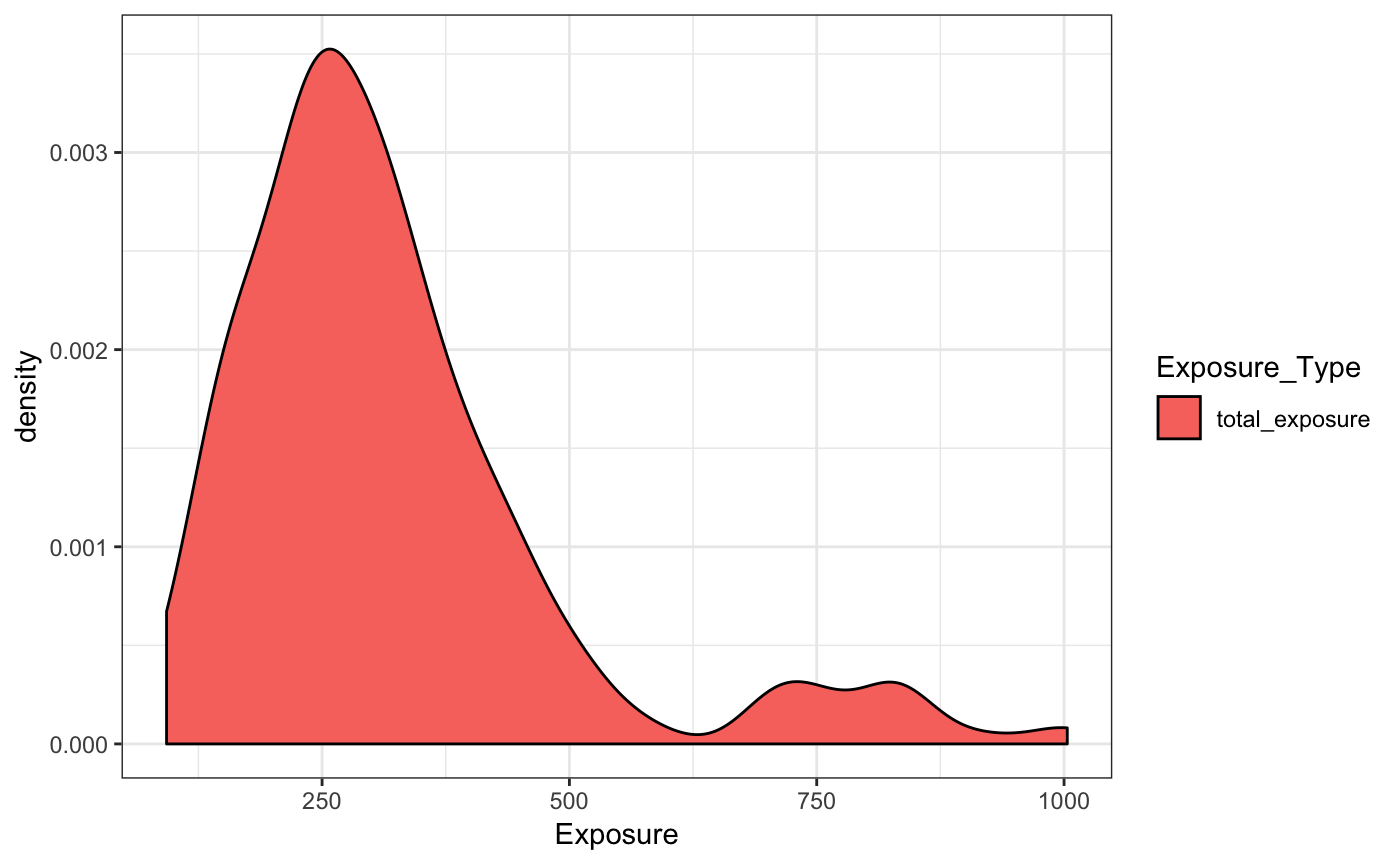
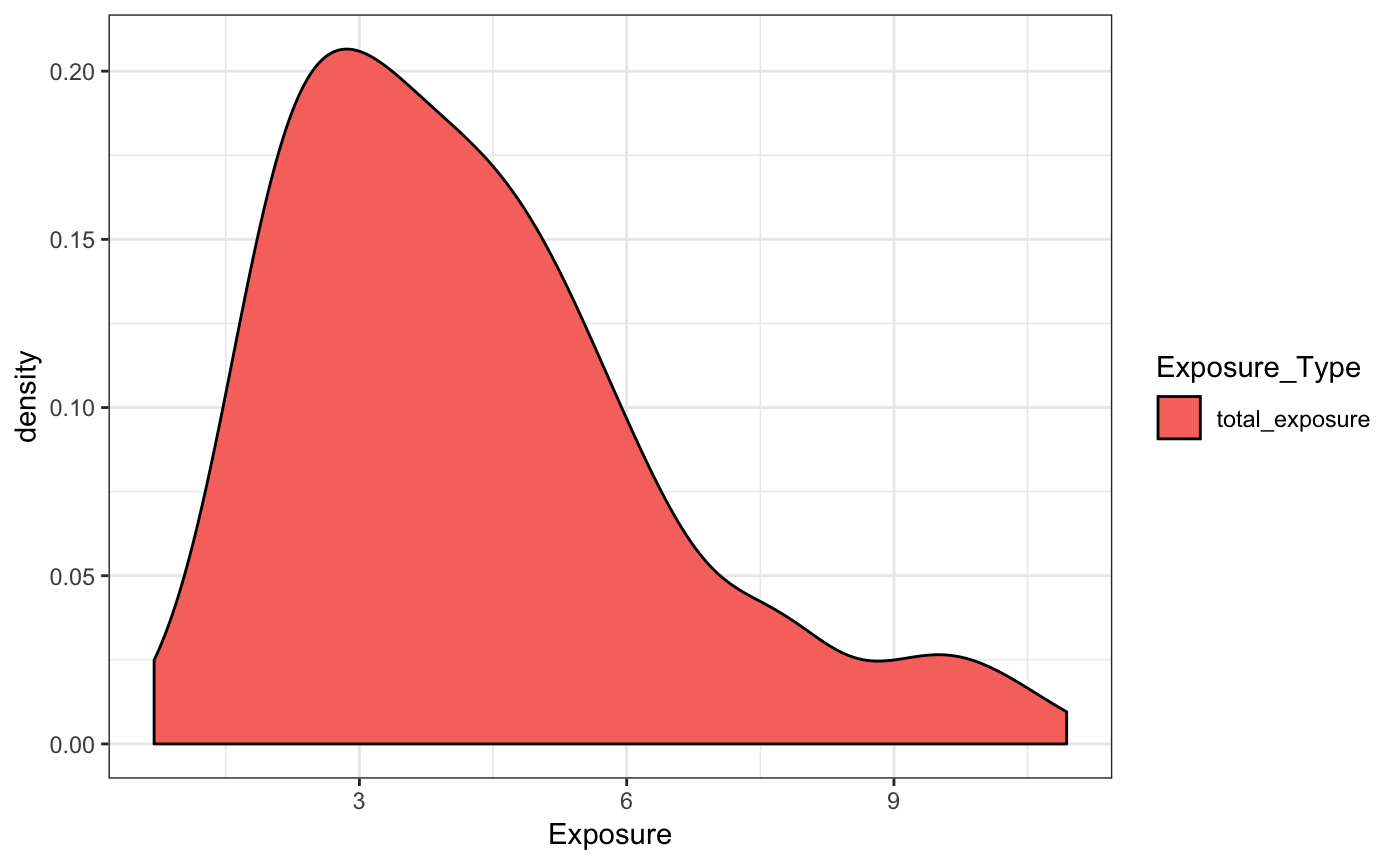
update longitudinal vignette

diff --git a/docs/articles/longitudinal-I.html b/docs/articles/longitudinal-I.html
@@ -87,7 +87,7 @@
       <h1>STAP in a Longitudinal Data Setting</h1>
                         <h4 class="author">Vignette Author</h4>
             
-            <h4 class="date">2018-09-12</h4>
+            <h4 class="date">2018-09-19</h4>
       
       
       <div class="hidden name"><code>longitudinal-I.Rmd</code></div>
@@ -107,12 +107,14 @@
 <span class="co">#&gt; </span>
 <span class="co">#&gt;     intersect, setdiff, setequal, union</span>
 <span class="kw">library</span>(tidyr)
-<span class="kw">library</span>(ggplot2)</code></pre></div>
+<span class="kw">library</span>(ggplot2)
+<span class="kw">library</span>(rstap)
+<span class="co">#&gt; Loading required package: Rcpp</span></code></pre></div>
 <div id="data-structure-complexities" class="section level1">
 <h1 class="hasAnchor">
 <a href="#data-structure-complexities" class="anchor"></a>Data Structure Complexities</h1>
 <p>Spatial-temporal aggregated predictor (STAP) models extension in the longitudinal setting incorporates heirarchical variance components to account for within subject or group-level correlation.</p>
-<p>This setting also involves a different data structure, since exposure to built - environment features now occurs across time, subject movement across time or space. dropping out of studies and built-environment features - stores - may close or open, the map and covariate space is dynamic. This requires a secondary id to join on in addition to the typical ‘id_key’. We’ll demonstrate this and the stap model using the simple case of homogenously distributed built environment features, with subjects measured across two time points.</p>
+<p>This setting also involves a different data structure, since exposure to built environment features now occurs across time, and subjects can move across time or space. dropping out of studies and built-environment features - stores - may close or open, the map and covariate space is dynamic. This requires a secondary id to join on in addition to the typical ‘id_key’. We’ll demonstrate this and the stap model using the simple case of homogenously distributed built environment features, with subjects measured across two time points.</p>
 <p>Below we can see what the data for this kind of model might look like.</p>
 <div class="sourceCode"><pre class="sourceCode r"><code class="sourceCode r"><span class="kw">list</span>(<span class="st">'Subject Spatial-Temporal Data'</span> =<span class="st"> </span>subj_data,
      <span class="st">"BEF Spatial-Temporal Data"</span> =<span class="st"> </span>bef_data)
@@ -203,7 +205,7 @@
 <p><span class="math display">\[
 E[Y_{ij}|b_i] = \alpha + Z_1\delta_{Income} + Z_{2}\delta_{sex} + Z_{3}\delta_{Age} + X(\theta_s,\theta_t)\beta_{Coffee} + b_i
 \]</span> Where <span class="math display">\[
-X(\theta_s,\theta_t) = \big(\sum_{d\in\mathcal{D}} w_d(\frac{d}{\theta_s}) \big) \big(\sum_{t\in \mathcal{T}} w_t(\frac{t}{\theta_t}))
+X(\theta_s,\theta_t) = \big(\sum_{d\in\mathcal{D}} w_d(\frac{d}{\theta_s}) w_t(\frac{t}{\theta_t}) \big )
 \]</span></p>
 <p>and simulate it under the following fixed values</p>
 <div class="sourceCode"><pre class="sourceCode r"><code class="sourceCode r">alpha &lt;-<span class="st"> </span><span class="dv">22</span>
@@ -211,48 +213,51 @@ delta &lt;-<span class="st"> </span><span class="kw">c</span>(<span class="dt">I
 beta &lt;-<span class="st"> </span>.<span class="dv">5</span>
 theta_s &lt;-<span class="st"> </span>.<span class="dv">8</span>
 theta_t &lt;-<span class="st"> </span><span class="dv">34</span>
-tau &lt;-<span class="st"> </span><span class="dv">2</span>
+sigma &lt;-<span class="st"> </span><span class="dv">2</span>
+tau &lt;-<span class="st"> </span><span class="fl">1.5</span>
 d &lt;-<span class="st"> </span><span class="kw">seq</span>(<span class="dt">from =</span> <span class="dv">0</span>, <span class="dt">to =</span> <span class="kw">max</span>(td_data<span class="op">$</span>dist), <span class="dt">by =</span> <span class="fl">0.01</span>)
 t &lt;-<span class="st"> </span><span class="kw">seq</span>(<span class="dt">from =</span> <span class="dv">0</span>, <span class="dt">to =</span> <span class="kw">as.numeric</span>(<span class="kw">max</span>(td_data<span class="op">$</span>time)), <span class="dt">by =</span> <span class="fl">0.01</span>)
 w_s &lt;-<span class="st"> </span>pracma<span class="op">::</span><span class="kw"><a href="http://www.rdocumentation.org/packages/pracma/topics/erfz">erfc</a></span>(d<span class="op">/</span>theta_s)
 w_t &lt;-<span class="st"> </span>pracma<span class="op">::</span><span class="kw"><a href="http://www.rdocumentation.org/packages/pracma/topics/erfz">erf</a></span>(t<span class="op">/</span>theta_t)
 <span class="kw">par</span>(<span class="dt">mfrow=</span><span class="kw">c</span>(<span class="dv">1</span>,<span class="dv">2</span>))
 <span class="kw">plot</span>(d,w_s,<span class="dt">type=</span><span class="st">'l'</span>, <span class="dt">main=</span><span class="st">"Spatial Decay"</span>)
-<span class="kw">plot</span>(t,w_t,<span class="dt">type =</span> <span class="st">"l"</span>, <span class="dt">main =</span> <span class="st">"Temporal Accumulation"</span>)</code></pre></div>
+<span class="kw">plot</span>(t,w_t,<span class="dt">type =</span> <span class="st">"l"</span>, <span class="dt">main =</span> <span class="st">"Temporal Accumulation"</span>,<span class="dt">xlab=</span><span class="st">'years'</span>)</code></pre></div>
 <p><img src="longitudinal-I_files/figure-html/unnamed-chunk-4-1.png" width="700"></p>
 <p>This will result in the following exposure densities</p>
-<div class="sourceCode"><pre class="sourceCode r"><code class="sourceCode r">td_data <span class="op">%&gt;%</span><span class="st"> </span><span class="kw"><a href="http://dplyr.tidyverse.org/reference/group_by.html">group_by</a></span>(subj_ID,measure_ID) <span class="op">%&gt;%</span><span class="st"> </span>
+<div class="sourceCode"><pre class="sourceCode r"><code class="sourceCode r">td_data <span class="op">%&gt;%</span><span class="st"> </span><span class="kw"><a href="http://dplyr.tidyverse.org/reference/group_by.html">group_by</a></span>(subj_ID,measure_ID,date) <span class="op">%&gt;%</span><span class="st"> </span>
 <span class="st">    </span><span class="kw"><a href="http://dplyr.tidyverse.org/reference/summarise.html">summarize</a></span>(<span class="dt">dist_exposure =</span> <span class="kw">sum</span>(pracma<span class="op">::</span><span class="kw"><a href="http://www.rdocumentation.org/packages/pracma/topics/erfz">erfc</a></span>(dist<span class="op">/</span>theta_s)),
               <span class="dt">time_exposure =</span> <span class="kw">sum</span>(pracma<span class="op">::</span><span class="kw"><a href="http://www.rdocumentation.org/packages/pracma/topics/erfz">erf</a></span>(<span class="kw">as.numeric</span>(time)<span class="op">/</span>theta_t)),
-              <span class="dt">total_exposure =</span> dist_exposure<span class="op">*</span>time_exposure) <span class="op">%&gt;%</span><span class="st"> </span>
+              <span class="dt">total_exposure =</span> <span class="kw">sum</span>(pracma<span class="op">::</span><span class="kw"><a href="http://www.rdocumentation.org/packages/pracma/topics/erfz">erfc</a></span>(dist<span class="op">/</span>theta_s) <span class="op">*</span><span class="st"> </span>pracma<span class="op">::</span><span class="kw"><a href="http://www.rdocumentation.org/packages/pracma/topics/erfz">erfc</a></span>(<span class="kw">as.numeric</span>(time)<span class="op">/</span>theta_t)) ) <span class="op">%&gt;%</span><span class="st"> </span>
 <span class="st">    </span><span class="kw"><a href="http://www.rdocumentation.org/packages/tidyr/topics/gather">gather</a></span>(<span class="kw"><a href="http://dplyr.tidyverse.org/reference/reexports.html">contains</a></span>(<span class="st">"Exposure"</span>),<span class="dt">key=</span><span class="st">"Exposure_Type"</span>,<span class="dt">value =</span> <span class="st">"Exposure"</span>) <span class="op">%&gt;%</span><span class="st"> </span>
 <span class="st">    </span><span class="kw"><a href="http://dplyr.tidyverse.org/reference/filter.html">filter</a></span>(Exposure_Type <span class="op">!=</span><span class="st"> "total_exposure"</span>) <span class="op">%&gt;%</span><span class="st"> </span>
 <span class="st">    </span><span class="kw"><a href="http://www.rdocumentation.org/packages/ggplot2/topics/ggplot">ggplot</a></span>(<span class="kw"><a href="http://www.rdocumentation.org/packages/ggplot2/topics/aes">aes</a></span>(<span class="dt">x=</span>Exposure,<span class="dt">fill=</span>Exposure_Type)) <span class="op">+</span><span class="st"> </span><span class="kw"><a href="http://www.rdocumentation.org/packages/ggplot2/topics/geom_density">geom_density</a></span>(<span class="dt">alpha=</span><span class="fl">0.4</span>)  <span class="op">+</span><span class="st"> </span>
 <span class="st">        </span><span class="kw"><a href="http://www.rdocumentation.org/packages/ggplot2/topics/ggtheme">theme_bw</a></span>()</code></pre></div>
 <p><img src="longitudinal-I_files/figure-html/unnamed-chunk-5-1.png" width="700"></p>
-<div class="sourceCode"><pre class="sourceCode r"><code class="sourceCode r">td_data <span class="op">%&gt;%</span><span class="st"> </span><span class="kw"><a href="http://dplyr.tidyverse.org/reference/group_by.html">group_by</a></span>(subj_ID,measure_ID) <span class="op">%&gt;%</span><span class="st"> </span>
+<div class="sourceCode"><pre class="sourceCode r"><code class="sourceCode r">td_data <span class="op">%&gt;%</span><span class="st"> </span><span class="kw"><a href="http://dplyr.tidyverse.org/reference/group_by.html">group_by</a></span>(subj_ID,measure_ID,date) <span class="op">%&gt;%</span><span class="st"> </span>
 <span class="st">    </span><span class="kw"><a href="http://dplyr.tidyverse.org/reference/summarise.html">summarize</a></span>(<span class="dt">dist_exposure =</span> <span class="kw">sum</span>(pracma<span class="op">::</span><span class="kw"><a href="http://www.rdocumentation.org/packages/pracma/topics/erfz">erfc</a></span>(dist<span class="op">/</span>theta_s)),
               <span class="dt">time_exposure =</span> <span class="kw">sum</span>(pracma<span class="op">::</span><span class="kw"><a href="http://www.rdocumentation.org/packages/pracma/topics/erfz">erf</a></span>(<span class="kw">as.numeric</span>(time)<span class="op">/</span>theta_t)),
-              <span class="dt">total_exposure =</span> dist_exposure<span class="op">*</span>time_exposure) <span class="op">%&gt;%</span><span class="st"> </span>
+              <span class="dt">total_exposure =</span> <span class="kw">sum</span>(pracma<span class="op">::</span><span class="kw"><a href="http://www.rdocumentation.org/packages/pracma/topics/erfz">erfc</a></span>(dist<span class="op">/</span>theta_s) <span class="op">*</span><span class="st"> </span>pracma<span class="op">::</span><span class="kw"><a href="http://www.rdocumentation.org/packages/pracma/topics/erfz">erfc</a></span>(<span class="kw">as.numeric</span>(time)<span class="op">/</span>theta_t))) <span class="op">%&gt;%</span><span class="st"> </span>
 <span class="st">    </span><span class="kw"><a href="http://www.rdocumentation.org/packages/tidyr/topics/gather">gather</a></span>(<span class="kw"><a href="http://dplyr.tidyverse.org/reference/reexports.html">contains</a></span>(<span class="st">"Exposure"</span>),<span class="dt">key=</span><span class="st">"Exposure_Type"</span>,<span class="dt">value =</span> <span class="st">"Exposure"</span>) <span class="op">%&gt;%</span><span class="st"> </span>
 <span class="st">    </span><span class="kw"><a href="http://dplyr.tidyverse.org/reference/filter.html">filter</a></span>(Exposure_Type <span class="op">==</span><span class="st"> "total_exposure"</span>) <span class="op">%&gt;%</span><span class="st"> </span>
 <span class="st">    </span><span class="kw"><a href="http://www.rdocumentation.org/packages/ggplot2/topics/ggplot">ggplot</a></span>(<span class="kw"><a href="http://www.rdocumentation.org/packages/ggplot2/topics/aes">aes</a></span>(<span class="dt">x=</span>Exposure,<span class="dt">fill=</span>Exposure_Type)) <span class="op">+</span><span class="st"> </span><span class="kw"><a href="http://www.rdocumentation.org/packages/ggplot2/topics/geom_density">geom_density</a></span>()  <span class="op">+</span><span class="st"> </span>
 <span class="st">        </span><span class="kw"><a href="http://www.rdocumentation.org/packages/ggplot2/topics/ggtheme">theme_bw</a></span>()</code></pre></div>
 <p><img src="longitudinal-I_files/figure-html/unnamed-chunk-6-1.png" width="700"></p>
 <p>Below we see that after scaling and centering, the average exposure is higher for the second measurement. This makes sense because we’d expect individuals temporal exposure to continue to accumulate after the first measurement.</p>
-<div class="sourceCode"><pre class="sourceCode r"><code class="sourceCode r">Xs &lt;-<span class="st"> </span>td_data <span class="op">%&gt;%</span><span class="st"> </span><span class="kw"><a href="http://dplyr.tidyverse.org/reference/group_by.html">group_by</a></span>(subj_ID,measure_ID) <span class="op">%&gt;%</span><span class="st"> </span>
+<div class="sourceCode"><pre class="sourceCode r"><code class="sourceCode r">Xs &lt;-<span class="st"> </span>td_data <span class="op">%&gt;%</span><span class="st"> </span><span class="kw"><a href="http://dplyr.tidyverse.org/reference/group_by.html">group_by</a></span>(subj_ID,measure_ID,date) <span class="op">%&gt;%</span><span class="st"> </span>
 <span class="st">    </span><span class="kw"><a href="http://dplyr.tidyverse.org/reference/summarise.html">summarize</a></span>(<span class="dt">dist_exposure =</span> <span class="kw">sum</span>(pracma<span class="op">::</span><span class="kw"><a href="http://www.rdocumentation.org/packages/pracma/topics/erfz">erfc</a></span>(dist<span class="op">/</span>theta_s)),
               <span class="dt">time_exposure =</span> <span class="kw">sum</span>(pracma<span class="op">::</span><span class="kw"><a href="http://www.rdocumentation.org/packages/pracma/topics/erfz">erf</a></span>(<span class="kw">as.numeric</span>(time)<span class="op">/</span>theta_t)),
-              <span class="dt">total_exposure =</span> dist_exposure<span class="op">*</span>time_exposure) <span class="op">%&gt;%</span><span class="st"> </span>
+              <span class="dt">total_exposure =</span> <span class="kw">sum</span>(pracma<span class="op">::</span><span class="kw"><a href="http://www.rdocumentation.org/packages/pracma/topics/erfz">erfc</a></span>(dist<span class="op">/</span>theta_s) <span class="op">*</span><span class="st"> </span>pracma<span class="op">::</span><span class="kw"><a href="http://www.rdocumentation.org/packages/pracma/topics/erfz">erfc</a></span>(<span class="kw">as.numeric</span>(time)<span class="op">/</span>theta_t)) ) <span class="op">%&gt;%</span><span class="st"> </span>
 <span class="st">    </span><span class="kw"><a href="http://dplyr.tidyverse.org/reference/reexports.html">as_data_frame</a></span>() <span class="op">%&gt;%</span><span class="st"> </span><span class="kw"><a href="http://www.rdocumentation.org/packages/tidyr/topics/gather">gather</a></span>(<span class="kw"><a href="http://dplyr.tidyverse.org/reference/reexports.html">contains</a></span>(<span class="st">"Exposure"</span>),<span class="dt">key=</span><span class="st">'Exposure_Type'</span>,<span class="dt">value=</span><span class="st">"Exposure"</span>) <span class="op">%&gt;%</span><span class="st"> </span>
 <span class="st">    </span><span class="kw"><a href="http://dplyr.tidyverse.org/reference/filter.html">filter</a></span>(Exposure_Type <span class="op">==</span><span class="st"> "total_exposure"</span>) <span class="op">%&gt;%</span><span class="st"> </span>
-<span class="st">    </span><span class="kw"><a href="http://www.rdocumentation.org/packages/tidyr/topics/spread">spread</a></span>(measure_ID,Exposure) <span class="op">%&gt;%</span><span class="st"> </span>
-<span class="st">    </span><span class="kw"><a href="http://dplyr.tidyverse.org/reference/mutate.html">mutate</a></span>(<span class="dt">j_1 =</span> (<span class="st">`</span><span class="dt">1</span><span class="st">`</span> <span class="op">-</span><span class="st"> </span><span class="kw">mean</span>(<span class="st">`</span><span class="dt">1</span><span class="st">`</span>)) <span class="op">/</span><span class="st"> </span><span class="kw">sd</span>(<span class="st">`</span><span class="dt">1</span><span class="st">`</span>),
-           <span class="dt">j_2 =</span> (<span class="st">`</span><span class="dt">2</span><span class="st">`</span> <span class="op">-</span><span class="st"> </span><span class="kw">mean</span>(<span class="st">`</span><span class="dt">2</span><span class="st">`</span>,<span class="dt">na.rm=</span>T)) <span class="op">/</span><span class="st"> </span><span class="kw">sd</span>(<span class="st">`</span><span class="dt">2</span><span class="st">`</span>,<span class="dt">na.rm=</span>T)) <span class="op">%&gt;%</span><span class="st"> </span>## Needed because some subjects missing for second measurement
+<span class="st">    </span><span class="kw"><a href="http://dplyr.tidyverse.org/reference/group_by.html">group_by</a></span>(subj_ID,measure_ID) <span class="op">%&gt;%</span><span class="st"> </span><span class="kw"><a href="http://dplyr.tidyverse.org/reference/summarise.html">summarise</a></span>(<span class="dt">Exposure =</span> <span class="kw">sum</span>(Exposure)) <span class="op">%&gt;%</span><span class="st">  </span>## sum multiple dates (moves) to a single outcome measurement
+<span class="st">    </span><span class="kw"><a href="http://www.rdocumentation.org/packages/tidyr/topics/spread">spread</a></span>(measure_ID,Exposure) <span class="op">%&gt;%</span><span class="st">  </span>
+<span class="st">    </span><span class="kw"><a href="http://dplyr.tidyverse.org/reference/mutate.html">mutate</a></span>(<span class="dt">j_1 =</span> (<span class="st">`</span><span class="dt">1</span><span class="st">`</span> <span class="op">-</span><span class="st"> </span><span class="kw">mean</span>(.<span class="op">$</span><span class="st">`</span><span class="dt">1</span><span class="st">`</span>)) <span class="op">/</span><span class="st"> </span><span class="kw">sd</span>(.<span class="op">$</span><span class="st">`</span><span class="dt">1</span><span class="st">`</span>),
+           <span class="dt">j_2 =</span> (<span class="st">`</span><span class="dt">2</span><span class="st">`</span> <span class="op">-</span><span class="st"> </span><span class="kw">mean</span>(.<span class="op">$</span><span class="st">`</span><span class="dt">2</span><span class="st">`</span>,<span class="dt">na.rm=</span>T)) <span class="op">/</span><span class="st"> </span><span class="kw">sd</span>(.<span class="op">$</span><span class="st">`</span><span class="dt">2</span><span class="st">`</span>,<span class="dt">na.rm=</span>T)) <span class="op">%&gt;%</span><span class="st"> </span>## Needed because some subjects missing for second measurement
 <span class="st">    </span><span class="kw"><a href="http://dplyr.tidyverse.org/reference/select.html">select</a></span>(subj_ID,j_<span class="dv">1</span>,j_<span class="dv">2</span>)
 
-subj_fdata &lt;-<span class="st"> </span>subj_fdata <span class="op">%&gt;%</span><span class="st"> </span><span class="kw"><a href="http://dplyr.tidyverse.org/reference/join.html">left_join</a></span>(Xs <span class="op">%&gt;%</span><span class="st"> </span><span class="kw"><a href="http://www.rdocumentation.org/packages/tidyr/topics/gather">gather</a></span>(j_<span class="dv">1</span>,j_<span class="dv">2</span>,<span class="dt">key =</span> <span class="st">"measure_ID"</span>,<span class="dt">value=</span><span class="st">"Fast_Food"</span>) <span class="op">%&gt;%</span><span class="st"> </span><span class="kw"><a href="http://dplyr.tidyverse.org/reference/mutate.html">mutate</a></span>(<span class="dt">measure_ID =</span> (measure_ID<span class="op">==</span><span class="st">"j_2"</span>)<span class="op">*</span><span class="dv">1</span> <span class="op">+</span><span class="st"> </span><span class="dv">1</span>),
+subj_fdata &lt;-<span class="st"> </span>subj_fdata <span class="op">%&gt;%</span><span class="st"> </span><span class="kw"><a href="http://dplyr.tidyverse.org/reference/join.html">left_join</a></span>(Xs <span class="op">%&gt;%</span><span class="st"> </span><span class="kw"><a href="http://www.rdocumentation.org/packages/tidyr/topics/gather">gather</a></span>(j_<span class="dv">1</span>,j_<span class="dv">2</span>,<span class="dt">key =</span> <span class="st">"measure_ID"</span>,<span class="dt">value=</span><span class="st">"Coffee_Shop"</span>) <span class="op">%&gt;%</span><span class="st"> </span><span class="kw"><a href="http://dplyr.tidyverse.org/reference/mutate.html">mutate</a></span>(<span class="dt">measure_ID =</span> (measure_ID<span class="op">==</span><span class="st">"j_2"</span>)<span class="op">*</span><span class="dv">1</span> <span class="op">+</span><span class="st"> </span><span class="dv">1</span>),
                                        <span class="dt">by=</span><span class="kw">c</span>(<span class="st">"ID"</span>=<span class="st">"subj_ID"</span>,<span class="st">"measure_ID"</span>))
+
 subj_fdata &lt;-<span class="st"> </span>subj_fdata <span class="op">%&gt;%</span><span class="st"> </span><span class="kw"><a href="http://dplyr.tidyverse.org/reference/join.html">left_join</a></span>(<span class="kw"><a href="http://dplyr.tidyverse.org/reference/reexports.html">data_frame</a></span>(<span class="dt">ID=</span><span class="dv">1</span><span class="op">:</span>num_subj_init,
                                                   <span class="dt">ran_int =</span> <span class="kw">rnorm</span>(<span class="dt">n=</span>num_subj_init,<span class="dt">mean =</span> <span class="dv">0</span>, <span class="dt">sd =</span> tau)))
 <span class="co">#&gt; Joining, by = "ID"</span>
@@ -260,66 +265,120 @@ subj_fdata &lt;-<span class="st"> </span>subj_fdata <span class="op">%&gt;%</spa
 Xs <span class="op">%&gt;%</span><span class="st"> </span><span class="kw"><a href="http://www.rdocumentation.org/packages/tidyr/topics/gather">gather</a></span>(j_<span class="dv">1</span>,j_<span class="dv">2</span>,<span class="dt">key=</span><span class="st">"measurement"</span>,<span class="dt">value=</span><span class="st">"exposure"</span>) <span class="op">%&gt;%</span>
 <span class="st">    </span><span class="kw"><a href="http://www.rdocumentation.org/packages/ggplot2/topics/ggplot">ggplot</a></span>(<span class="kw"><a href="http://www.rdocumentation.org/packages/ggplot2/topics/aes">aes</a></span>(<span class="dt">x=</span>exposure,<span class="dt">fill=</span>measurement)) <span class="op">+</span><span class="st"> </span><span class="kw"><a href="http://www.rdocumentation.org/packages/ggplot2/topics/geom_density">geom_density</a></span>(<span class="dt">alpha=</span><span class="fl">0.3</span>)  <span class="op">+</span><span class="st"> </span><span class="kw"><a href="http://www.rdocumentation.org/packages/ggplot2/topics/ggtheme">theme_bw</a></span>()</code></pre></div>
 <p><img src="longitudinal-I_files/figure-html/unnamed-chunk-7-1.png" width="700"></p>
-<div class="sourceCode"><pre class="sourceCode r"><code class="sourceCode r">lme_inf &lt;-<span class="st"> </span>lme4<span class="op">::</span><span class="kw"><a href="http://www.rdocumentation.org/packages/lme4/topics/modular">glFormula</a></span>(<span class="dt">formula =</span>  measure_ID <span class="op">~</span><span class="st"> </span>sex <span class="op">+</span><span class="st"> </span><span class="kw">I</span>((Income<span class="op">-</span><span class="kw">mean</span>(Income))<span class="op">/</span><span class="kw">sd</span>(Income) ) <span class="op">+</span><span class="st"> </span><span class="kw">I</span>((Age <span class="op">-</span><span class="kw">mean</span>(Age))<span class="op">/</span><span class="kw">sd</span>(Age)) <span class="op">+</span><span class="st"> </span>Fast_Food <span class="op">+</span><span class="st"> </span>(<span class="dv">1</span><span class="op">|</span>ID),
+<div class="sourceCode"><pre class="sourceCode r"><code class="sourceCode r">lme_inf &lt;-<span class="st"> </span>lme4<span class="op">::</span><span class="kw"><a href="http://www.rdocumentation.org/packages/lme4/topics/modular">glFormula</a></span>(<span class="dt">formula =</span>  measure_ID <span class="op">~</span>
+<span class="st">                               </span><span class="kw">I</span>((Income<span class="op">-</span><span class="kw">mean</span>(Income))<span class="op">/</span><span class="kw">sd</span>(Income) ) <span class="op">+</span><span class="st"> </span>
+<span class="st">                               </span>sex <span class="op">+</span><span class="st"> </span>
+<span class="st">                               </span><span class="kw">I</span>((Age <span class="op">-</span><span class="kw">mean</span>(Age))<span class="op">/</span><span class="kw">sd</span>(Age)) <span class="op">+</span><span class="st"> </span>
+<span class="st">                               </span>Coffee_Shop <span class="op">+</span><span class="st"> </span>(<span class="dv">1</span><span class="op">|</span>ID),
                      <span class="dt">data =</span> subj_fdata,<span class="dt">family =</span> <span class="kw">gaussian</span>(<span class="dt">link=</span><span class="st">'identity'</span>))
 Z &lt;-<span class="st"> </span>lme_inf<span class="op">$</span>X
-y &lt;-<span class="st"> </span>Z <span class="op">%*%</span><span class="st"> </span><span class="kw">c</span>(alpha,delta,beta) <span class="op">+</span><span class="st"> </span>subj_fdata<span class="op">$</span>ran_int
+y &lt;-<span class="st"> </span>Z <span class="op">%*%</span><span class="st"> </span><span class="kw">c</span>(alpha,delta,beta) <span class="op">+</span><span class="st"> </span>subj_fdata<span class="op">$</span>ran_int <span class="op">+</span><span class="st"> </span><span class="kw">rnorm</span>(<span class="dt">n =</span> <span class="kw">nrow</span>(Z),<span class="dt">mean =</span> <span class="dv">0</span>,<span class="dt">sd =</span> sigma)
 <span class="kw">par</span>(<span class="dt">mfrow=</span><span class="kw">c</span>(<span class="dv">1</span>,<span class="dv">2</span>))
-<span class="kw">hist</span>(y[<span class="dv">1</span><span class="op">:</span>num_subj_init],<span class="dt">main=</span><span class="st">"First Measurement"</span>)
-<span class="kw">hist</span>(y[num_subj_init<span class="op">+</span><span class="dv">1</span><span class="op">:</span><span class="kw">length</span>(y)],<span class="dt">main=</span><span class="st">"First Measurement"</span>)</code></pre></div>
+<span class="kw">hist</span>(y[<span class="dv">1</span><span class="op">:</span>num_subj_init], <span class="dt">xlab =</span> <span class="st">"BMI"</span>,<span class="dt">main=</span><span class="st">"First Measurement"</span>)
+<span class="kw">hist</span>(y[num_subj_init<span class="op">+</span><span class="dv">1</span><span class="op">:</span><span class="kw">length</span>(y)], <span class="dt">xlab=</span> <span class="st">"BMI"</span>, <span class="dt">main=</span><span class="st">"Second Measurement"</span>)</code></pre></div>
 <p><img src="longitudinal-I_files/figure-html/unnamed-chunk-8-1.png" width="700"></p>
 <div class="sourceCode"><pre class="sourceCode r"><code class="sourceCode r">subj_fdata &lt;-<span class="st"> </span>subj_fdata <span class="op">%&gt;%</span><span class="st"> </span><span class="kw"><a href="http://dplyr.tidyverse.org/reference/join.html">left_join</a></span>(<span class="kw">cbind</span>(lme_inf<span class="op">$</span>fr,y),<span class="dt">by=</span><span class="kw">c</span>(<span class="st">"ID"</span>,<span class="st">"measure_ID"</span>))  <span class="op">%&gt;%</span><span class="st"> </span>
-<span class="st">    </span><span class="kw"><a href="http://dplyr.tidyverse.org/reference/mutate.html">mutate</a></span>(<span class="dt">sex =</span> sex.x, <span class="dt">Fast_Food=</span> Fast_Food.x) <span class="op">%&gt;%</span><span class="st"> </span><span class="kw"><a href="http://dplyr.tidyverse.org/reference/select.html">select</a></span>(<span class="op">-</span>Fast_Food.x,<span class="op">-</span>sex.x,<span class="op">-</span>sex.y,<span class="op">-</span>Fast_Food.y)</code></pre></div>
+<span class="st">    </span><span class="kw"><a href="http://dplyr.tidyverse.org/reference/mutate.html">mutate</a></span>(<span class="dt">sex =</span> sex.x, <span class="dt">Coffee_Shop=</span> Coffee_Shop.x,<span class="dt">subj_ID=</span>ID,
+           <span class="dt">centered_income =</span> <span class="st">`</span><span class="dt">I((Income - mean(Income))/sd(Income))</span><span class="st">`</span>,
+           <span class="dt">centered_age =</span> <span class="st">`</span><span class="dt">I((Age - mean(Age))/sd(Age))</span><span class="st">`</span>) <span class="op">%&gt;%</span>
+<span class="st">    </span><span class="kw"><a href="http://dplyr.tidyverse.org/reference/select.html">select</a></span>(<span class="op">-</span>Coffee_Shop.x,<span class="op">-</span>sex.x,<span class="op">-</span>sex.y,
+           <span class="op">-</span>ID,<span class="st">`</span><span class="dt">I((Age - mean(Age))/sd(Age))</span><span class="st">`</span>,
+           <span class="st">`</span><span class="dt">I((Income - mean(Income))/sd(Income))</span><span class="st">`</span>)</code></pre></div>
 <p>The final datasets passed to the <code>stap_glmer</code> function will then be the subject specific data, and the td data above containing the subject ID, the BEF class label and the distance or time. These are displayed below</p>
 <pre><code>#&gt; $subject_data
-#&gt; # A tibble: 291 x 12
-#&gt;       ID DOB        Income measure_date   Age measure_ID ran_int
-#&gt;    &lt;int&gt; &lt;date&gt;      &lt;dbl&gt; &lt;date&gt;       &lt;dbl&gt;      &lt;dbl&gt;   &lt;dbl&gt;
-#&gt;  1     1 1956-08-11   99.2 2000-02-19    43.6          1   0.197
-#&gt;  2     2 1953-09-23   62.6 2000-03-20    46.5          1   0.324
-#&gt;  3     3 1968-10-01   21.8 2000-03-10    31.5          1   0.641
-#&gt;  4     4 1954-06-01   89.9 2000-10-11    46.4          1   1.38 
-#&gt;  5     5 1956-09-22   50.6 2000-10-14    44.1          1   1.35 
-#&gt;  6     6 1960-01-30   19.5 2000-10-03    40.7          1  -0.246
-#&gt;  7     7 1954-04-17   67.2 2000-12-09    46.7          1   0.169
-#&gt;  8     8 1958-11-01   79.1 2000-05-12    41.6          1  -0.516
-#&gt;  9     9 1966-04-06   66.8 2000-03-14    34.0          1  -0.460
-#&gt; 10    10 1952-02-04   67.2 2000-12-04    48.9          1  -2.38 
-#&gt; # ... with 281 more rows, and 5 more variables: `I((Income -
-#&gt; #   mean(Income))/sd(Income))` &lt;I(dbl)&gt;, `I((Age -
-#&gt; #   mean(Age))/sd(Age))` &lt;I(dbl)&gt;, y &lt;dbl&gt;, sex &lt;int&gt;, Fast_Food &lt;dbl&gt;
+#&gt; # A tibble: 291 x 8
+#&gt;    subj_ID Income measure_ID   Age ran_int     y   sex Coffee_Shop
+#&gt;      &lt;int&gt;  &lt;dbl&gt;      &lt;dbl&gt; &lt;dbl&gt;   &lt;dbl&gt; &lt;dbl&gt; &lt;int&gt;       &lt;dbl&gt;
+#&gt;  1       1   99.2          1  43.6   0.148  24.6     1      -0.509
+#&gt;  2       2   62.6          1  46.5   0.243  23.9     0      -0.611
+#&gt;  3       3   21.8          1  31.5   0.480  18.6     1      -0.686
+#&gt;  4       4   89.9          1  46.4   1.03   25.8     1       0.353
+#&gt;  5       5   50.6          1  44.1   1.01   24.4     1       0.807
+#&gt;  6       6   19.5          1  40.7  -0.184  23.1     1      -0.722
+#&gt;  7       7   67.2          1  46.7   0.127  27.1     1       0.789
+#&gt;  8       8   79.1          1  41.6  -0.387  21.8     0      -0.571
+#&gt;  9       9   66.8          1  34.0  -0.345  24.4     1       4.12 
+#&gt; 10      10   67.2          1  48.9  -1.79   22.5     0      -0.883
+#&gt; # ... with 281 more rows
 #&gt; 
 #&gt; $distance_data
-#&gt; # A tibble: 17,875 x 5
-#&gt;    subj_ID measure_ID bef_ID class        dist
-#&gt;      &lt;int&gt;      &lt;dbl&gt;  &lt;int&gt; &lt;chr&gt;       &lt;dbl&gt;
-#&gt;  1       1          1      1 Coffee_Shop  1.88
-#&gt;  2       2          1      1 Coffee_Shop  1.08
-#&gt;  3       3          1      1 Coffee_Shop  1.98
-#&gt;  4       4          1      1 Coffee_Shop  2.09
-#&gt;  5       5          1      1 Coffee_Shop  1.34
-#&gt;  6       6          1      1 Coffee_Shop  1.40
-#&gt;  7       7          1      1 Coffee_Shop  1.36
-#&gt;  8       8          1      1 Coffee_Shop  1.33
-#&gt;  9       9          1      1 Coffee_Shop  1.74
-#&gt; 10       9          1      1 Coffee_Shop  1.10
+#&gt; # A tibble: 17,875 x 6
+#&gt;    subj_ID measure_ID date       bef_ID class        dist
+#&gt;      &lt;int&gt;      &lt;dbl&gt; &lt;date&gt;      &lt;int&gt; &lt;chr&gt;       &lt;dbl&gt;
+#&gt;  1       1          1 1974-05-11      1 Coffee_Shop  1.88
+#&gt;  2       2          1 1976-03-04      1 Coffee_Shop  1.08
+#&gt;  3       3          1 1976-04-15      1 Coffee_Shop  1.98
+#&gt;  4       4          1 1986-12-24      1 Coffee_Shop  2.09
+#&gt;  5       5          1 1987-07-17      1 Coffee_Shop  1.34
+#&gt;  6       6          1 1974-01-31      1 Coffee_Shop  1.40
+#&gt;  7       7          1 1988-06-05      1 Coffee_Shop  1.36
+#&gt;  8       8          1 1975-01-01      1 Coffee_Shop  1.33
+#&gt;  9       9          1 1985-09-21      1 Coffee_Shop  1.74
+#&gt; 10       9          1 1991-11-14      1 Coffee_Shop  1.10
 #&gt; # ... with 17,865 more rows
 #&gt; 
 #&gt; $time_data
-#&gt; # A tibble: 17,875 x 5
-#&gt;    subj_ID measure_ID bef_ID class       time            
-#&gt;      &lt;int&gt;      &lt;dbl&gt;  &lt;int&gt; &lt;chr&gt;       &lt;time&gt;          
-#&gt;  1       1          1      1 Coffee_Shop 25.7945205479452
-#&gt;  2       2          1      1 Coffee_Shop 24.0602739726027
-#&gt;  3       3          1      1 Coffee_Shop 23.9178082191781
-#&gt;  4       4          1      1 Coffee_Shop 13.8082191780822
-#&gt;  5       5          1      1 Coffee_Shop 13.2547945205479
-#&gt;  6       6          1      1 Coffee_Shop 26.6904109589041
-#&gt;  7       7          1      1 Coffee_Shop 12.5205479452055
-#&gt;  8       8          1      1 Coffee_Shop 25.3780821917808
-#&gt;  9       9          1      1 Coffee_Shop 6.15068493150685
-#&gt; 10       9          1      1 Coffee_Shop 8.33698630136986
+#&gt; # A tibble: 17,875 x 6
+#&gt;    subj_ID measure_ID date       bef_ID class       time            
+#&gt;      &lt;int&gt;      &lt;dbl&gt; &lt;date&gt;      &lt;int&gt; &lt;chr&gt;       &lt;time&gt;          
+#&gt;  1       1          1 1974-05-11      1 Coffee_Shop 25.7945205479452
+#&gt;  2       2          1 1976-03-04      1 Coffee_Shop 24.0602739726027
+#&gt;  3       3          1 1976-04-15      1 Coffee_Shop 23.9178082191781
+#&gt;  4       4          1 1986-12-24      1 Coffee_Shop 13.8082191780822
+#&gt;  5       5          1 1987-07-17      1 Coffee_Shop 13.2547945205479
+#&gt;  6       6          1 1974-01-31      1 Coffee_Shop 26.6904109589041
+#&gt;  7       7          1 1988-06-05      1 Coffee_Shop 12.5205479452055
+#&gt;  8       8          1 1975-01-01      1 Coffee_Shop 25.3780821917808
+#&gt;  9       9          1 1985-09-21      1 Coffee_Shop 6.15068493150685
+#&gt; 10       9          1 1991-11-14      1 Coffee_Shop 8.33698630136986
 #&gt; # ... with 17,865 more rows</code></pre>
+<div class="sourceCode"><pre class="sourceCode r"><code class="sourceCode r">fit &lt;-<span class="st"> </span><span class="kw"><a href="../reference/stap_glmer.html">stap_glmer</a></span>(y <span class="op">~</span><span class="st"> </span>centered_income <span class="op">+</span><span class="st">  </span>sex <span class="op">+</span><span class="st"> </span>centered_age <span class="op">+</span><span class="st"> </span><span class="kw">stap</span>(Coffee_Shop) <span class="op">+</span><span class="st"> </span>(<span class="dv">1</span><span class="op">|</span>subj_ID),
+                  <span class="dt">family =</span> <span class="kw">gaussian</span>(<span class="dt">link=</span><span class="st">'identity'</span>),
+                  <span class="dt">subject_data =</span> homog_longitudinal_subject_data,
+                  <span class="dt">distance_data =</span> homog_longitudinal_distance_data,
+                  <span class="dt">time_data =</span> homog_longitudinal_time_data,
+                  <span class="dt">subject_ID =</span> <span class="st">'subj_ID'</span>,<span class="dt">measure_ID =</span> <span class="st">'measure_ID'</span>,
+                  <span class="dt">prior_intercept =</span> <span class="kw"><a href="../reference/priors.html">normal</a></span>(<span class="dt">location =</span> <span class="dv">25</span>, <span class="dt">scale =</span> <span class="dv">4</span>, <span class="dt">autoscale =</span> F),
+                  <span class="dt">prior =</span> <span class="kw"><a href="../reference/priors.html">normal</a></span>(<span class="dt">location =</span> <span class="dv">0</span>, <span class="dt">scale =</span> <span class="dv">4</span>,<span class="dt">autoscale=</span>F),
+                  <span class="dt">prior_stap =</span> <span class="kw"><a href="../reference/priors.html">normal</a></span>(<span class="dt">location =</span> <span class="dv">0</span>, <span class="dt">scale =</span> <span class="dv">4</span>),
+                  <span class="dt">prior_theta =</span> <span class="kw"><a href="../reference/priors.html">log_normal</a></span>(<span class="dt">location =</span> <span class="dv">1</span>, <span class="dt">scale =</span> <span class="dv">2</span>),
+                  <span class="dt">max_distance =</span> <span class="dv">3</span>, <span class="dt">max_time =</span> <span class="dv">50</span>,
+                  <span class="dt">chains =</span> <span class="dv">3</span>,
+                  <span class="dt">iter =</span> <span class="fl">1E3</span>,
+                  <span class="dt">cores =</span> <span class="dv">3</span>)</code></pre></div>
+<div class="sourceCode"><pre class="sourceCode r"><code class="sourceCode r">fit
+<span class="co">#&gt; stap_glmer</span>
+<span class="co">#&gt;  family:       gaussian [identity]</span>
+<span class="co">#&gt;  formula:      y ~ centered_income + sex + centered_age + (1 | subj_ID)</span>
+<span class="co">#&gt;  observations: 291</span>
+<span class="co">#&gt; ------</span>
+<span class="co">#&gt;                                        Median MAD_SD</span>
+<span class="co">#&gt; (Intercept)                            22.2    0.2  </span>
+<span class="co">#&gt; centered_income                        -0.4    0.2  </span>
+<span class="co">#&gt; sex                                     0.4    0.3  </span>
+<span class="co">#&gt; centered_age                            1.3    0.2  </span>
+<span class="co">#&gt; Coffee_Shop                             0.4    0.2  </span>
+<span class="co">#&gt; Coffee_Shop_spatial_scale               0.7    0.6  </span>
+<span class="co">#&gt; Coffee_Shop_temporal_scale              1.6    2.2  </span>
+<span class="co">#&gt; Sigma[subj_ID:(Intercept),(Intercept)]  2.6    0.1  </span>
+<span class="co">#&gt; </span>
+<span class="co">#&gt; Auxiliary parameter(s):</span>
+<span class="co">#&gt;       Median MAD_SD</span>
+<span class="co">#&gt; sigma 3.7    5.3   </span>
+<span class="co">#&gt; </span>
+<span class="co">#&gt; Error terms:</span>
+<span class="co">#&gt;  Groups   Name        Std.Dev.</span>
+<span class="co">#&gt;  subj_ID  (Intercept)  1.6    </span>
+<span class="co">#&gt;  Residual             12.6    </span>
+<span class="co">#&gt; Num.levels: subj_ID 150 </span>
+<span class="co">#&gt; </span>
+<span class="co">#&gt; Sample avg. posterior predictive distribution of y:</span>
+<span class="co">#&gt;          Median MAD_SD</span>
+<span class="co">#&gt; mean_PPD 22.5    0.3  </span>
+<span class="co">#&gt; </span>
+<span class="co">#&gt; ------</span>
+<span class="co">#&gt; * For help interpreting the printed output see ?print.stapreg</span>
+<span class="co">#&gt; * For info on the priors used see ?prior_summary.stapreg</span></code></pre></div>
 </div>
   </div>
 
